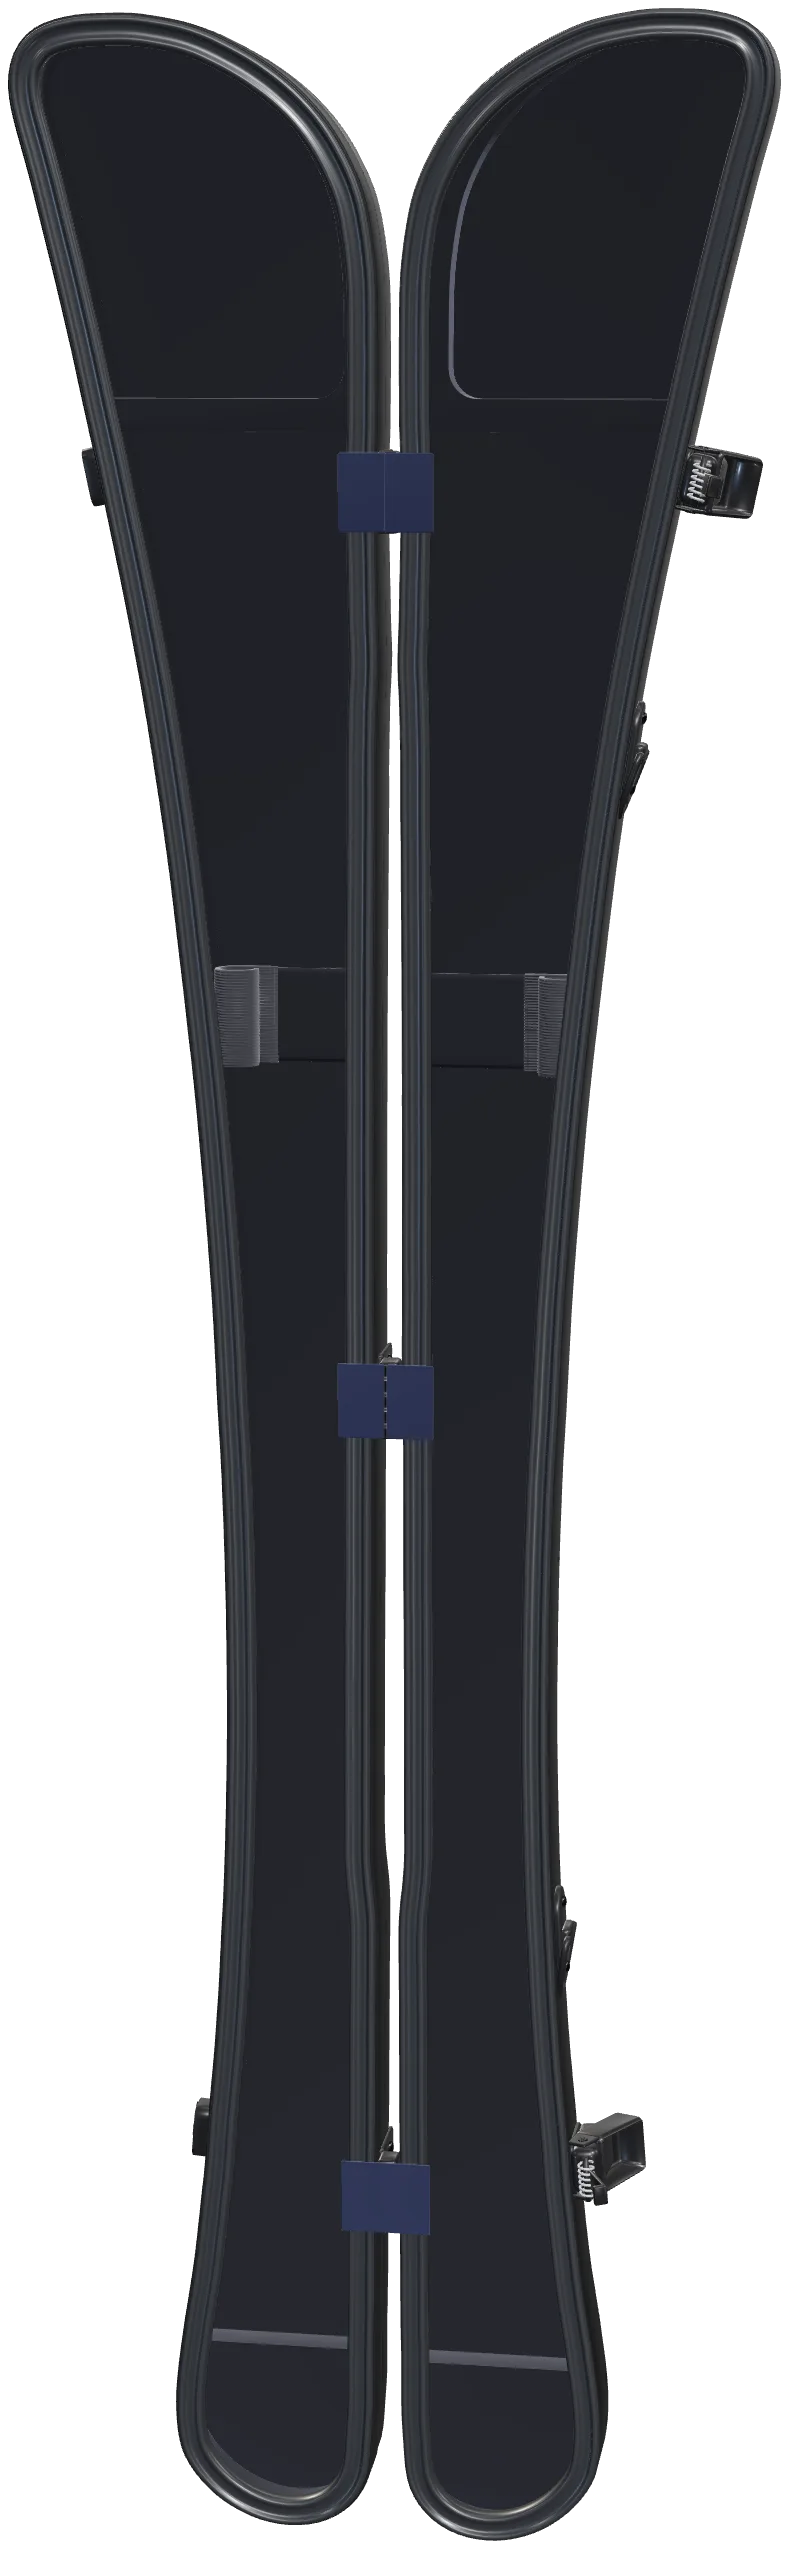
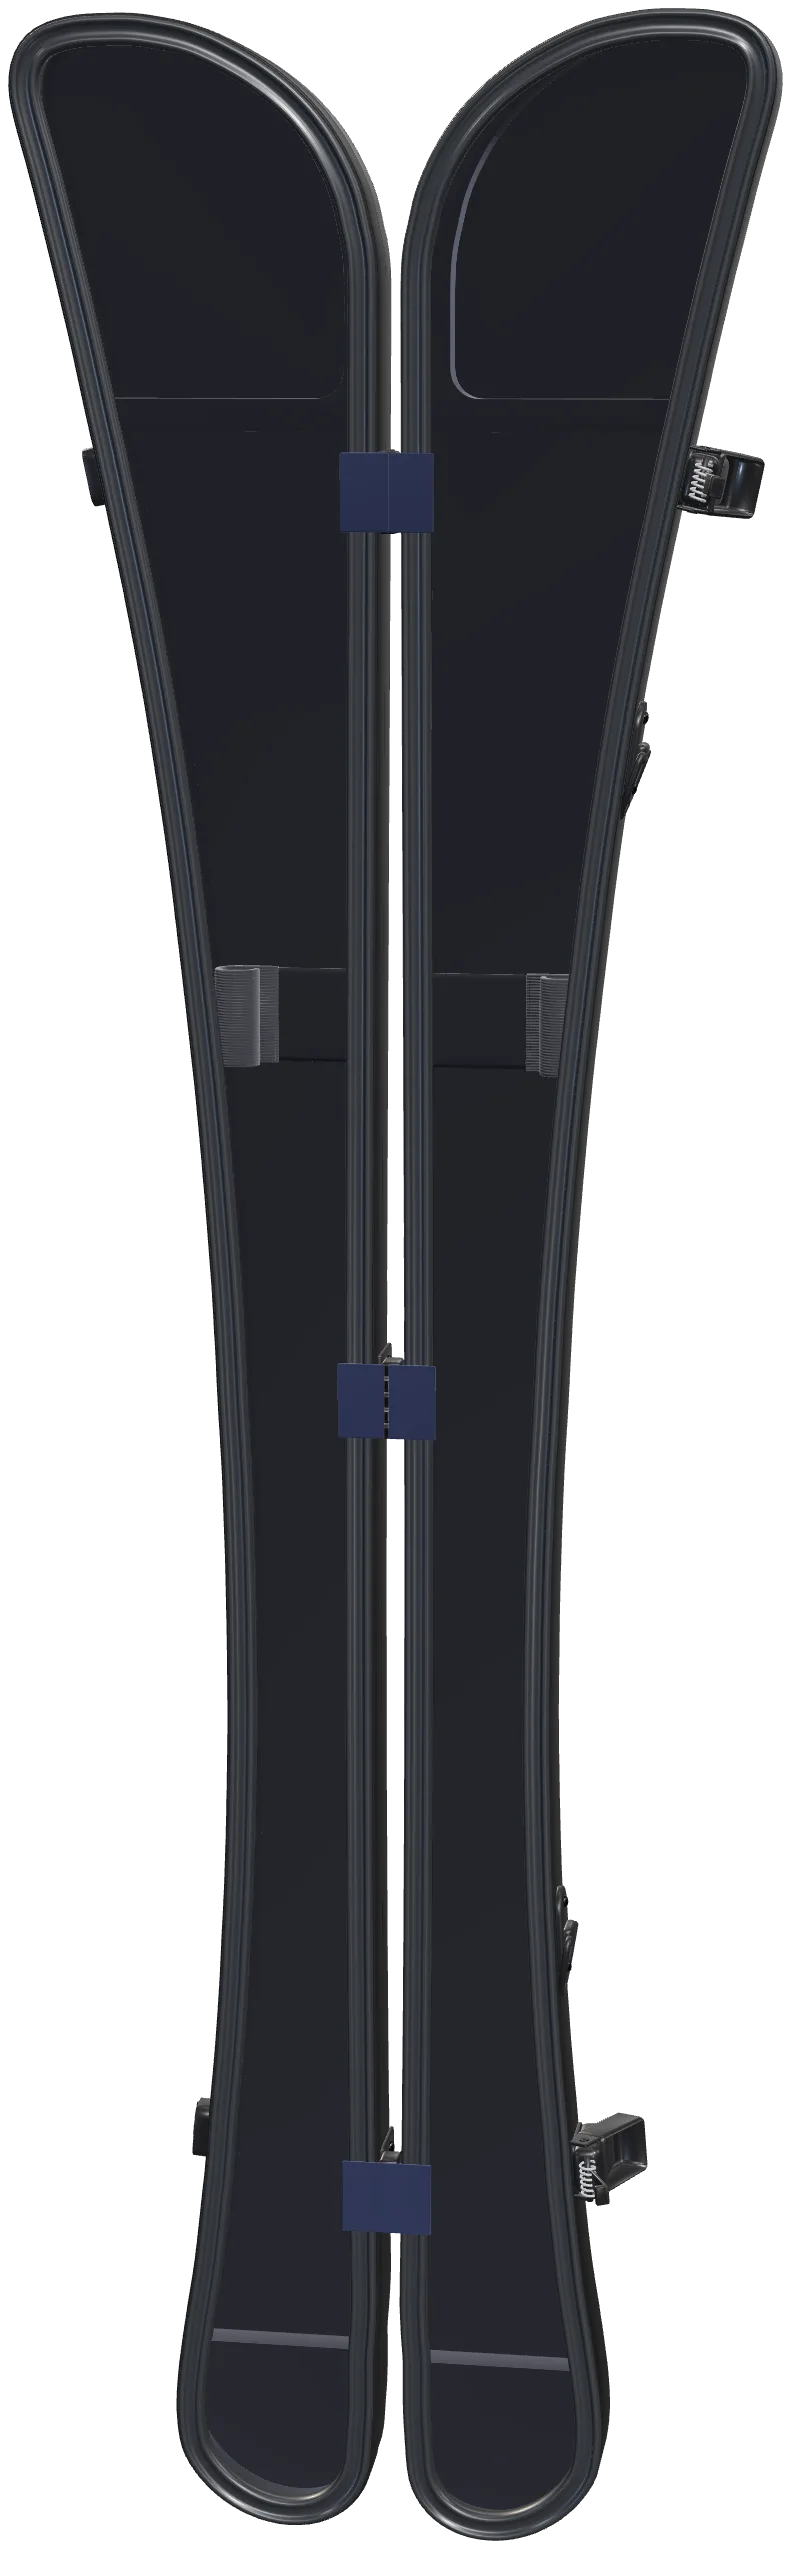
Fotos del case corregido
Las 28 fotos de producto salen otra vez del .glb corregido, con la
forma nueva del lado de las bisagras.

Claude-Session: https://claude.ai/code/session_01R2JTJbHUrTq7cbAzGjEyWX

diff --git a/src/lib/store/case-images.ts b/src/lib/store/case-images.ts
@@ -5,11 +5,11 @@
 
 export const CASE_IMAGE_SIZE = {
   "closed": {
-    "width": 224,
+    "width": 225,
     "height": 1290
   },
   "open": {
-    "width": 789,
+    "width": 791,
     "height": 2549
   }
 } as const;
